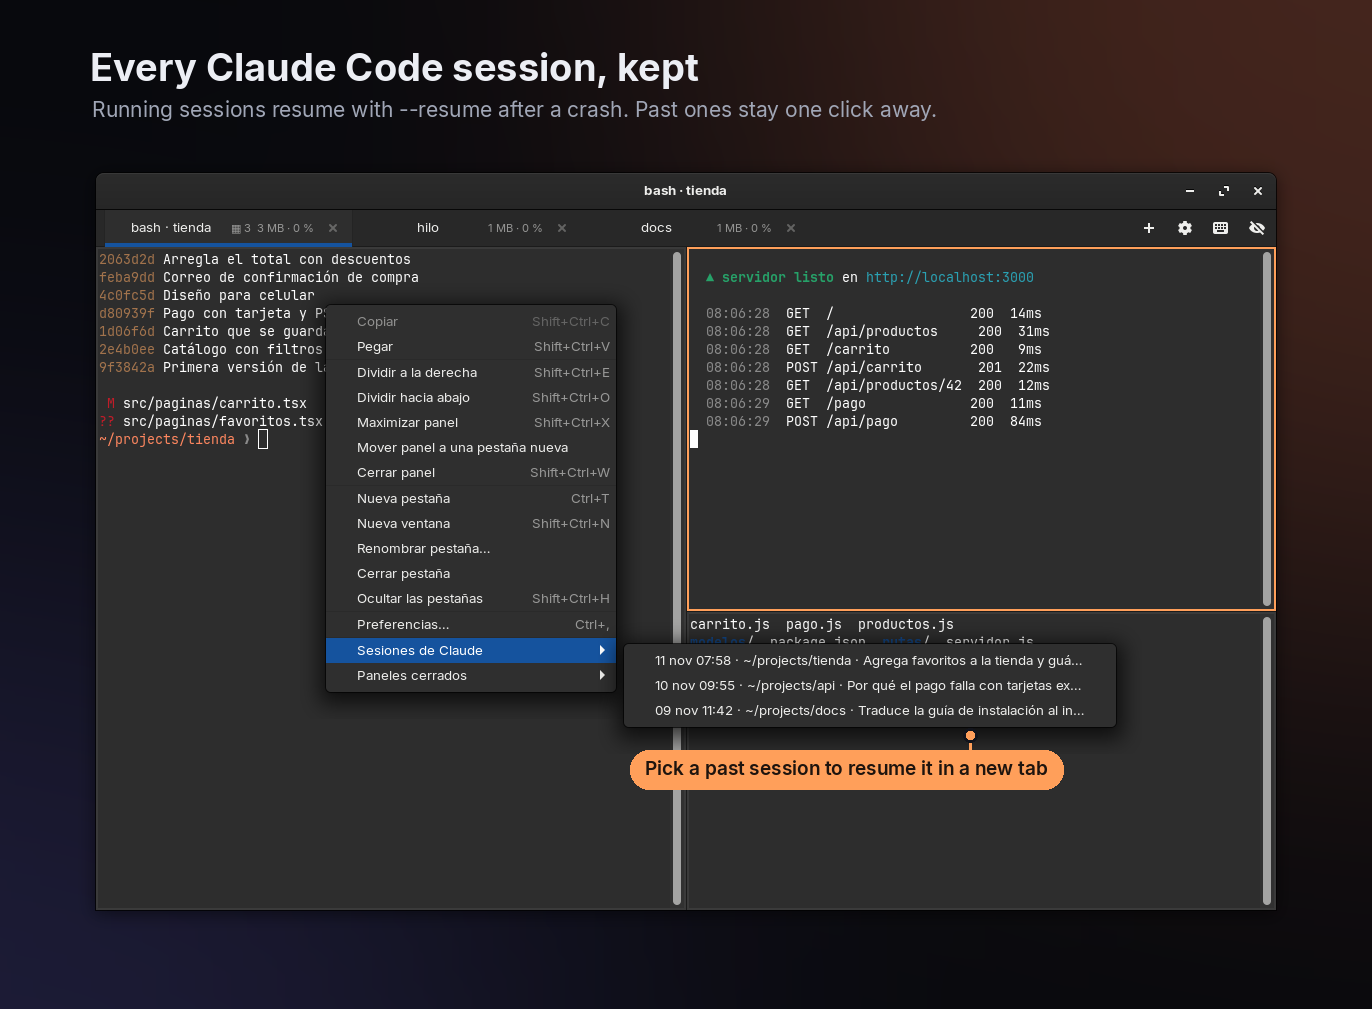
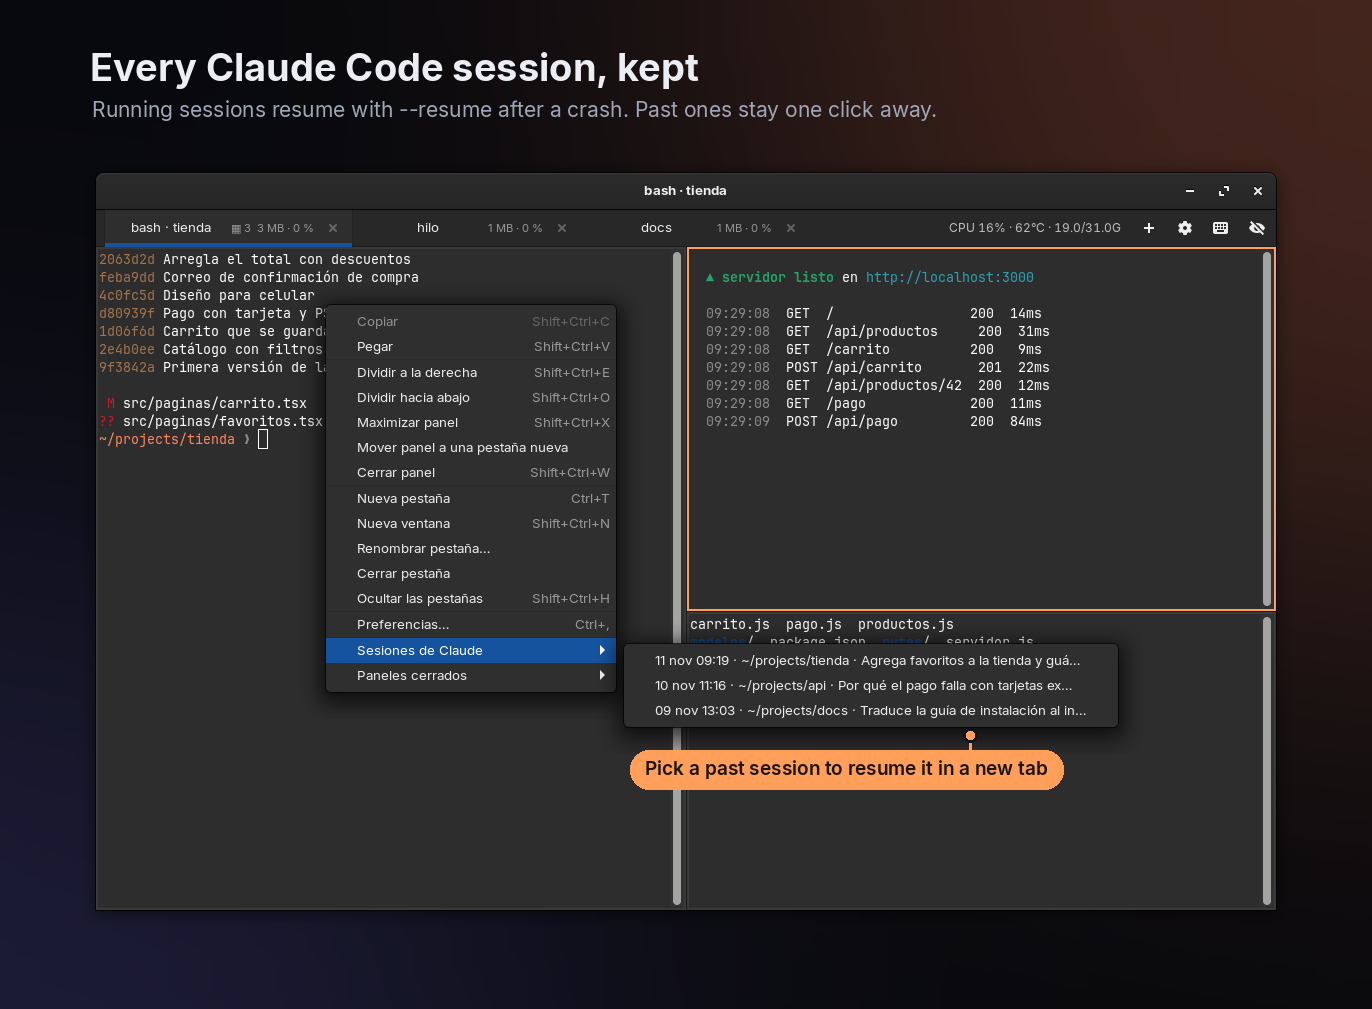
Monitor del equipo en la barra: CPU, temperatura y RAM
Se lee de /proc y de los sensores del kernel (x86_pkg_temp, coretemp,
k10temp…). Se activa o desactiva en Preferencias → General (show_system).

diff --git a/hilo.py b/hilo.py
@@ -44,6 +44,8 @@ DEFAULT_CONFIG = {
     "scroll_interval_s": 10,
     # Mostrar RAM y CPU de cada pestaña (shell + todo lo que corre dentro).
     "show_usage": True,
+    # CPU, temperatura y RAM de todo el equipo, al final de la barra de pestañas.
+    "show_system": True,
     # Modo discreto: la barra de pestañas oculta (se siguen manejando con el teclado).
     "tabs_hidden": False,
     # Los atajos se cambian en Preferencias (Ctrl+,); quedan en "shortcuts".
@@ -362,6 +364,73 @@ def pss_kb(pid, fallback):
     except (OSError, ValueError):
         pass
     return fallback
+
+
+_TEMP_PATH = None
+
+
+def cpu_temp_path():
+    """Sensor de temperatura del procesador (se busca una sola vez)."""
+    global _TEMP_PATH
+    if _TEMP_PATH is not None:
+        return _TEMP_PATH or None
+    found = ""
+    try:
+        for z in sorted(os.listdir("/sys/class/thermal")):
+            base = f"/sys/class/thermal/{z}"
+            try:
+                if open(base + "/type").read().strip() == "x86_pkg_temp":
+                    found = base + "/temp"
+                    break
+            except OSError:
+                pass
+        if not found:
+            for hw in sorted(os.listdir("/sys/class/hwmon")):
+                base = f"/sys/class/hwmon/{hw}"
+                try:
+                    name = open(base + "/name").read().strip()
+                except OSError:
+                    continue
+                if name in ("coretemp", "k10temp", "zenpower", "cpu_thermal", "acpitz") and os.path.exists(base + "/temp1_input"):
+                    found = base + "/temp1_input"
+                    if name != "acpitz":
+                        break
+    except OSError:
+        pass
+    _TEMP_PATH = found
+    return found or None
+
+
+def system_sample(prev):
+    """(texto, caliente, estado) con CPU %, temperatura y RAM usada/total del equipo."""
+    try:
+        with open("/proc/stat") as f:
+            vals = [int(x) for x in f.readline().split()[1:]]
+        idle, total = vals[3] + (vals[4] if len(vals) > 4 else 0), sum(vals)
+        mem = {}
+        with open("/proc/meminfo") as f:
+            for line in f:
+                k, v = line.split(":", 1)
+                mem[k] = int(v.split()[0])
+    except (OSError, ValueError, IndexError):
+        return None, False, prev
+    cpu = None
+    if prev:
+        di, dt = idle - prev[0], total - prev[1]
+        cpu = 100.0 * (1 - di / dt) if dt > 0 else 0.0
+    parts = [f"CPU {cpu:.0f}%" if cpu is not None else "CPU …"]
+    temp = None
+    path = cpu_temp_path()
+    if path:
+        try:
+            temp = int(open(path).read()) / 1000
+            parts.append(f"{temp:.0f}°C")
+        except (OSError, ValueError):
+            pass
+    tot = mem.get("MemTotal", 0)
+    used = tot - mem.get("MemAvailable", mem.get("MemFree", 0))
+    parts.append(f"{used / 1048576:.1f}/{tot / 1048576:.1f}G")
+    return " · ".join(parts), bool(temp and temp >= 85), (idle, total)
 
 
 def fmt_mem(kb):
@@ -1216,11 +1285,17 @@ class TermWindow(Gtk.ApplicationWindow):
         self.hide_btn = Gtk.Button.new_from_icon_name("view-conceal-symbolic", Gtk.IconSize.MENU)
         self.hide_btn.connect("clicked", lambda *_: self.app.toggle_tabs())
         bar_btns = Gtk.Box(spacing=0)
+        # Consumo de todo el equipo (CPU, temperatura y RAM).
+        self.sys_label = Gtk.Label(margin_end=10)
+        self.sys_label.get_style_context().add_class("hilo-sys")
+        self.sys_label.set_tooltip_text("Todo el equipo: uso de CPU, temperatura del procesador y RAM usada / total")
+        bar_btns.pack_start(self.sys_label, False, False, 0)
         for b in (self.plus_btn, self.prefs_btn, self.help_btn, self.hide_btn):
             b.set_relief(Gtk.ReliefStyle.NONE)
             b.set_focus_on_click(False)
             bar_btns.pack_start(b, False, False, 0)
         bar_btns.show_all()
+        self.update_system()
         self.nb.set_action_widget(bar_btns, Gtk.PackType.END)
         self.update_bar_tooltips()
 
@@ -1377,6 +1452,17 @@ class TermWindow(Gtk.ApplicationWindow):
         # Durante un arrastre se muestra igual, para poder soltar la pestaña en ella.
         self.nb.set_show_tabs(not self.app.config["tabs_hidden"] or bool(self.app.dragging))
         self.refresh_titles()
+
+    def update_system(self):
+        text = self.app.system_text if self.app.config["show_system"] else None
+        if not text:
+            self.sys_label.hide()
+            return
+        if self.sys_label.get_text() != text:
+            self.sys_label.set_text(text)
+        ctx = self.sys_label.get_style_context()
+        (ctx.add_class if self.app.system_hot else ctx.remove_class)("hot")
+        self.sys_label.show()
 
     def update_bar_tooltips(self):
         def tip(text, action):
@@ -1762,6 +1848,8 @@ class PreferencesWindow(Gtk.Window):
         rows = [
             ("show_usage", "Mostrar RAM y CPU en las pestañas",
              "La suma de la shell y de todo lo que corre dentro."),
+            ("show_system", "Mostrar CPU, temperatura y RAM del equipo",
+             "En la barra de pestañas, para todo el equipo."),
             ("autorun_claude", "Reanudar Claude Code solo al restaurar",
              "Si se apaga, el comando queda escrito esperando Enter."),
         ]
@@ -1799,6 +1887,11 @@ class PreferencesWindow(Gtk.Window):
     def set_option(self, key, value):
         self.app.config[key] = value
         self.app.save_config()
+        if key == "show_system":
+            if value:
+                self.app.system_text, self.app.system_hot, self.app._sys_prev = system_sample(None)
+            for w in self.app.windows:
+                w.update_system()
         if key == "show_usage":
             for w in self.app.windows:
                 for t in w.tabs:
@@ -1930,6 +2023,7 @@ class HiloApp(Gtk.Application):
         self.keymap = {}
         self.prefs = None
         self.help_win = None
+        self.system_text, self.system_hot, self._sys_prev = None, False, None
         self.rebuild_keymap()
 
     def do_startup(self):
@@ -1939,6 +2033,8 @@ class HiloApp(Gtk.Application):
             frame.hilo-pane > border { border: none; }
             frame.hilo-pane.multi > border { border: 2px solid alpha(@theme_fg_color, 0.07); }
             frame.hilo-pane.multi.focused > border { border-color: #ff9f5a; }
+            label.hilo-sys { font-size: 0.9em; font-feature-settings: "tnum"; opacity: 0.75; }
+            label.hilo-sys.hot { color: #ff7a59; opacity: 1; }
         """)
         Gtk.StyleContext.add_provider_for_screen(
             Gdk.Screen.get_default(), css, Gtk.STYLE_PROVIDER_PRIORITY_APPLICATION)
@@ -2203,8 +2299,11 @@ class HiloApp(Gtk.Application):
             changed |= p.poll()
         if self.config["show_usage"]:
             self.sample_usage()
+        if self.config["show_system"]:
+            self.system_text, self.system_hot, self._sys_prev = system_sample(self._sys_prev)
         for w in self.windows:
             w.refresh_titles()
+            w.update_system()
         self.save_state()
         return True
 

diff --git a/README.es.md b/README.es.md
@@ -73,7 +73,9 @@ Por defecto: Ctrl+T o Ctrl+Shift+T nueva pestaña (en la misma carpeta) · Ctrl+
 
 Además: Ctrl+clic abre enlaces, doble clic en la pestaña la renombra y el clic derecho abre el menú.
 
-En *General* se activan o desactivan el consumo en las pestañas, la reanudación automática de Claude y la lista de programas que se vuelven a abrir solos.
+**Monitor del equipo:** al final de la barra de pestañas Hilo muestra el uso de CPU, la temperatura del procesador y la RAM usada / total de todo el equipo, por ejemplo `CPU 22% · 71°C · 19.0/31.0G`. La temperatura se pone naranja desde 85 °C. Lee `/proc` y los sensores del kernel, así que no necesita nada adicional.
+
+En *General* se activan o desactivan el consumo en las pestañas, el monitor del equipo, la reanudación automática de Claude y la lista de programas que se vuelven a abrir solos.
 
 ![Hilo con la barra de pestañas oculta](docs/screenshots/es/hidden.png)
 
@@ -95,7 +97,7 @@ Usa la fuente, la paleta y el scrollback del perfil por defecto de GNOME Termina
 - Configuración: `~/.config/hilo/config.json`. Se maneja desde Preferencias, y solo guarda lo que cambió respecto a los valores por defecto.
 
 ```json
-{ "show_usage": true, "autorun_claude": true, "autorun": ["nvim", "vim", "htop"],
+{ "show_usage": true, "show_system": true, "autorun_claude": true, "autorun": ["nvim", "vim", "htop"],
   "shortcuts": { "new_tab": ["<Control>t"], "close_tab": ["<Control><Shift>w"] } }
 ```
 

diff --git a/README.md b/README.md
@@ -75,7 +75,9 @@ Defaults: Ctrl+T or Ctrl+Shift+T new tab (same directory) · Ctrl+Shift+E / O sp
 
 Also: Ctrl+click opens links, double-clicking a tab renames it, and right click opens the menu.
 
-Under *General* you can turn the usage display on tabs on or off, toggle automatic Claude resume, and edit the list of programs that reopen on their own.
+**Whole-system monitor:** at the end of the tab bar Hilo shows CPU use, processor temperature and used / total RAM for the whole computer, for example `CPU 22% · 71°C · 19.0/31.0G`. The temperature turns orange from 85 °C. It reads `/proc` and the kernel's sensors, so it needs nothing extra.
+
+Under *General* you can turn the per-tab usage and the system monitor on or off, toggle automatic Claude resume, and edit the list of programs that reopen on their own.
 
 ![Hilo with the tab bar hidden](docs/screenshots/en/hidden.png)
 
@@ -105,7 +107,7 @@ It uses the font, palette and scrollback of your default GNOME Terminal profile,
 - Settings: `~/.config/hilo/config.json`. Managed from Preferences; it only stores what differs from the defaults.
 
 ```json
-{ "show_usage": true, "autorun_claude": true, "autorun": ["nvim", "vim", "htop"],
+{ "show_usage": true, "show_system": true, "autorun_claude": true, "autorun": ["nvim", "vim", "htop"],
   "shortcuts": { "new_tab": ["<Control>t"], "close_tab": ["<Control><Shift>w"] } }
 ```
 
